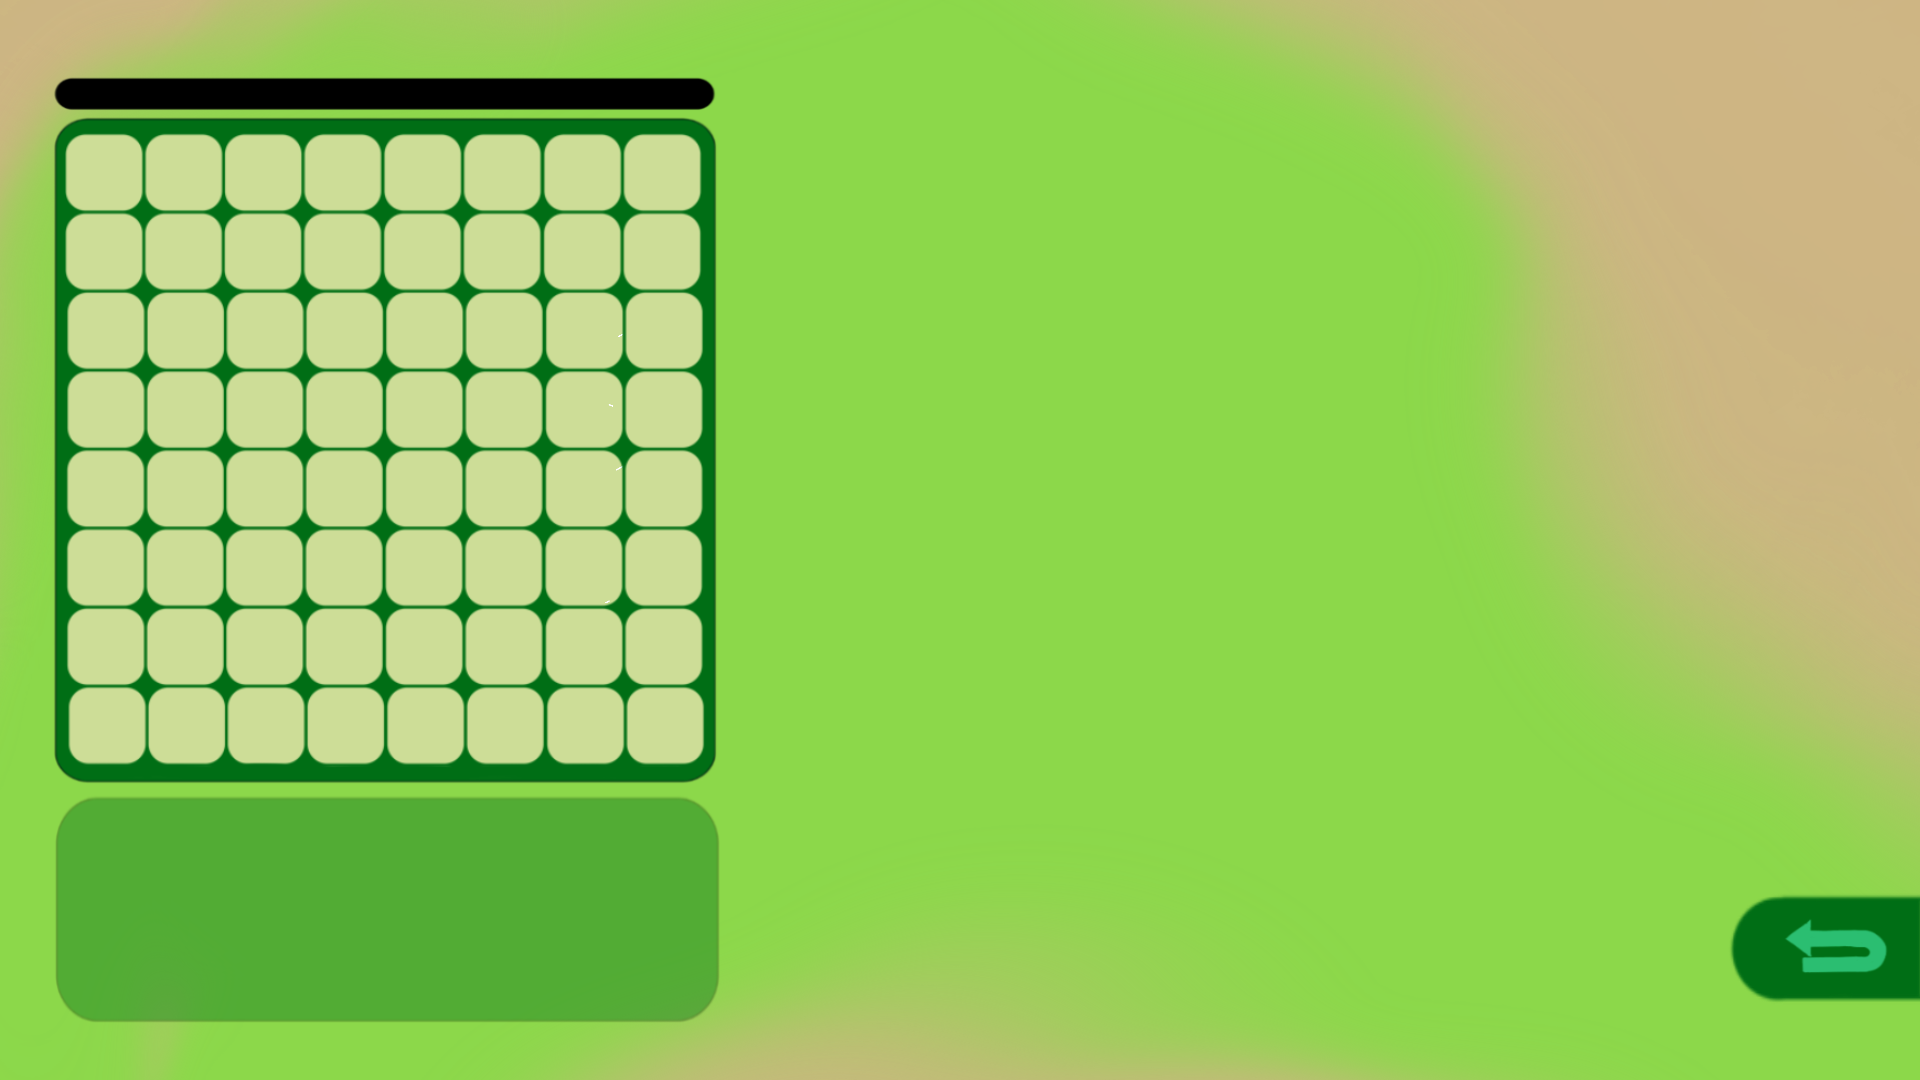
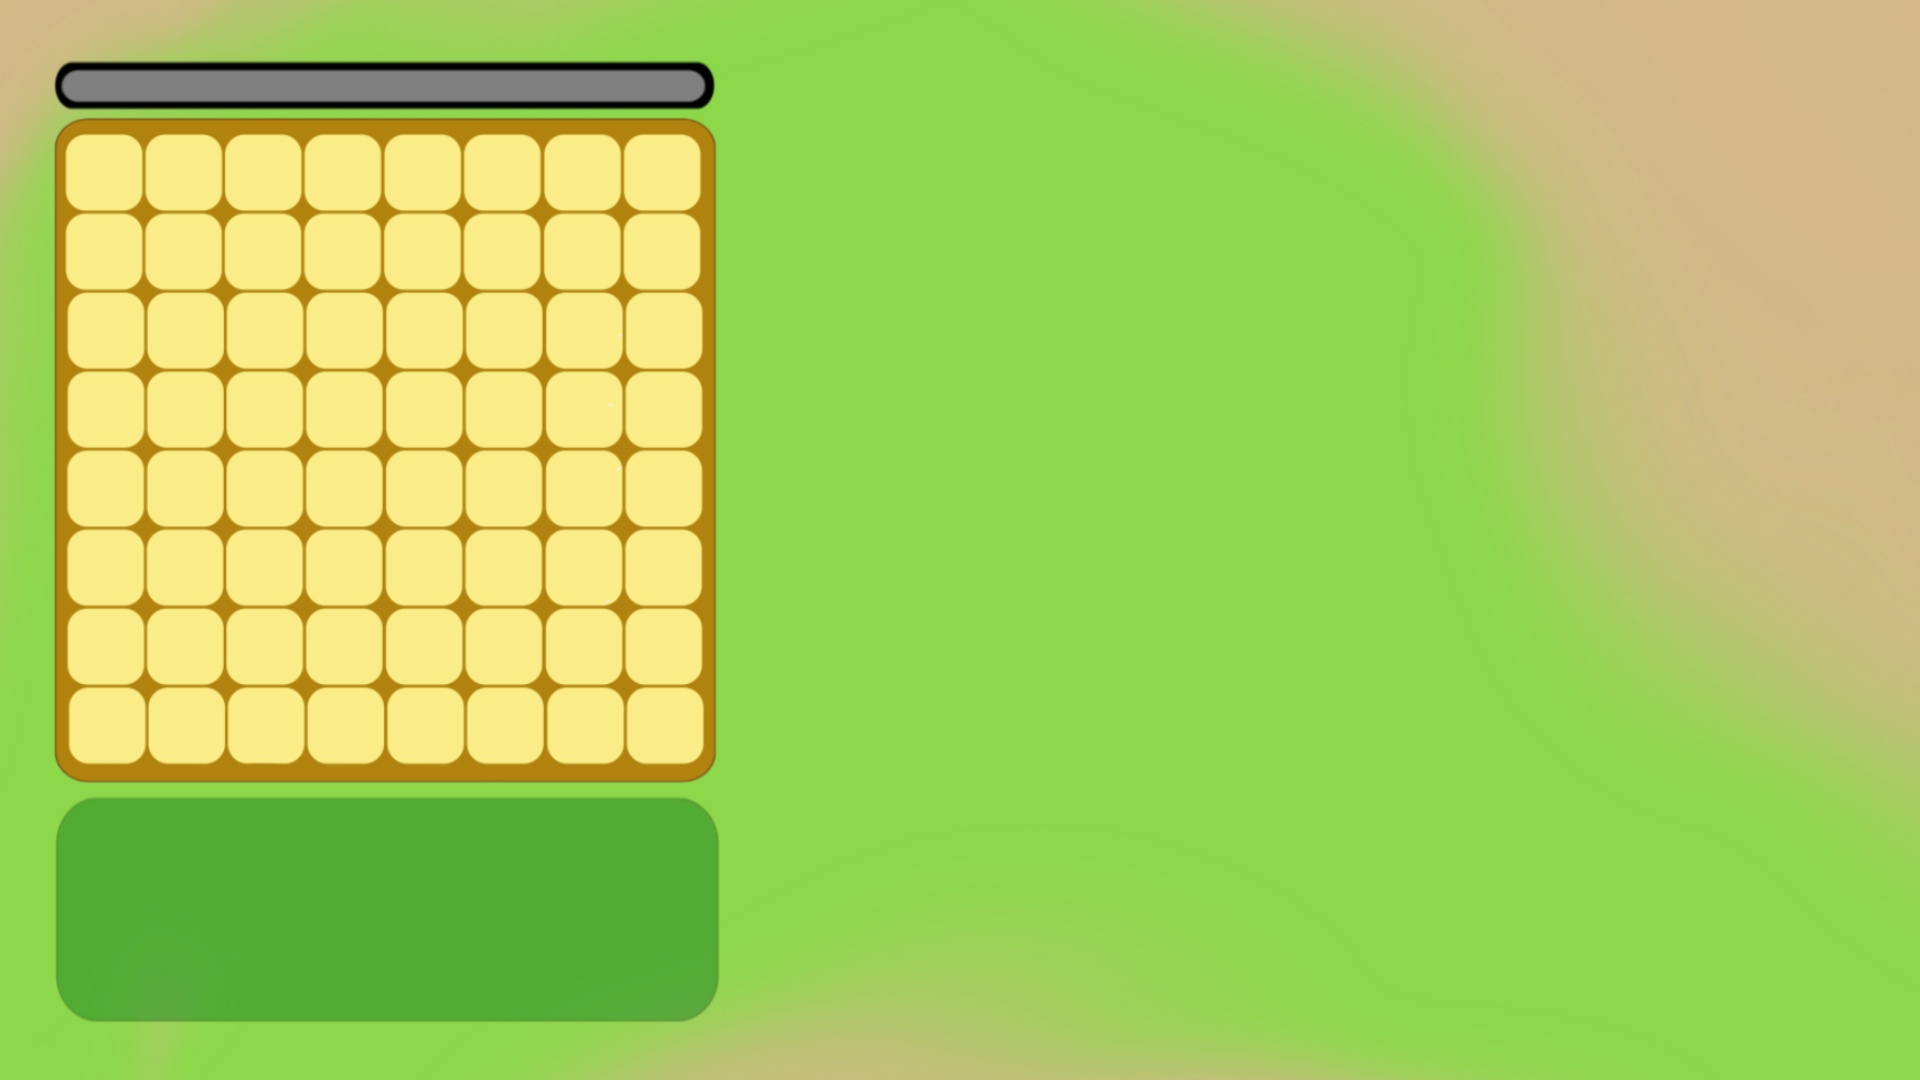
Update UI

Changed region(s): [[0.0312, 0.0306, 0.375, 0.7333], [0.875, 0.825, 1.0, 0.9472]]

diff --git a/Assets/Scripts/UI/MainScene/PlayerLifeBar.cs b/Assets/Scripts/UI/MainScene/PlayerLifeBar.cs
@@ -1,0 +1,21 @@
+using System;
+using UnityEngine;
+using UnityEngine.UI;
+
+namespace UI.MainScene
+{
+    public class PlayerLifeBar:MonoBehaviour
+    {
+        private Image image;
+        
+        private void Start()
+        {
+            image = GetComponent<Image>();
+        }
+
+        private void Update()
+        {
+            image.fillAmount = (float)Player.Player.Instance.currentLife / Player.Player.Instance.maxLife;
+        }
+    }
+}

diff --git a/Assets/Scripts/Grid/ObjectGenerator.cs b/Assets/Scripts/Grid/ObjectGenerator.cs
@@ -17,7 +17,6 @@ namespace Grid
             GenerateObject(new WaterObject());
             GenerateObject(new EarthObject());
             GenerateObject(new GrassObject());
-            GenerateRandomObject();
         }
 
         private void GenerateRandomObject()
